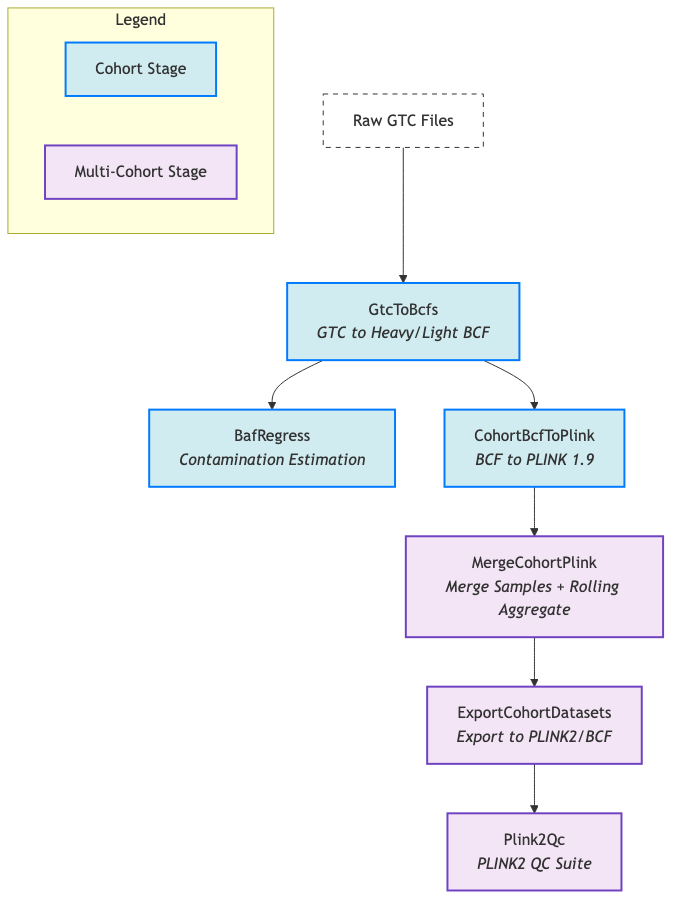
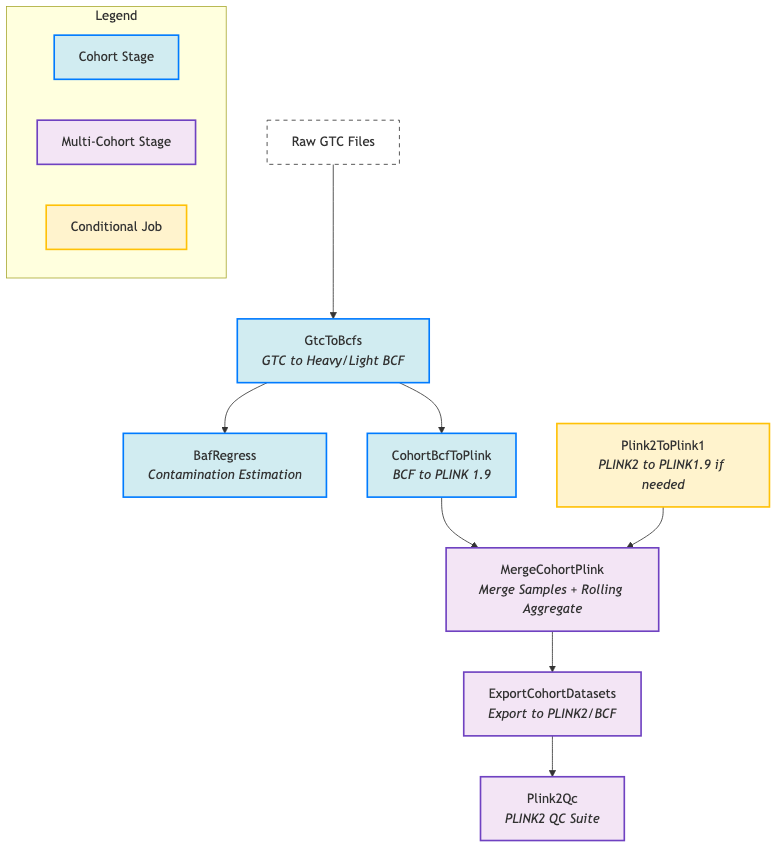
POPGEN-1268: Update rolling aggregate to handle PLINK2 format

diff --git a/src/popgen_genotyping/stages.py b/src/popgen_genotyping/stages.py
@@ -15,6 +15,7 @@ from popgen_genotyping.jobs.export_cohort_datasets_job import run_export_cohort_
 from popgen_genotyping.jobs.gtc_to_bcfs_job import run_gtc_to_bcfs
 from popgen_genotyping.jobs.merge_plink_job import run_merge_plink
 from popgen_genotyping.jobs.plink2_qc_job import run_plink2_qc
+from popgen_genotyping.jobs.plink2_to_plink1_job import run_plink2_to_plink1
 from popgen_genotyping.metamist_utils import (
     query_reported_sex,
     resolve_cohort_gtc_mapping,
@@ -204,20 +205,47 @@ class MergeCohortPlink(MultiCohortStage):
             ['popgen_genotyping', 'rolling_aggregate', 'previous_analysis_id'], default=None
         )
 
-        previous_aggregate_paths: list[dict[str, str]] | None = None
+        previous_aggregate_plink1_paths: list[dict[str, str]] | None = None
         samples_to_remove: list[str] | None = None
+        merge_job_dependencies: list[BashJob] = []
 
         if prev_analysis_id:
-            previous_aggregate_paths, samples_to_remove = resolve_rolling_aggregate(prev_analysis_id=prev_analysis_id)
+            # A previous aggregate exists in PLINK2 format, so we need to convert it to PLINK1.9
+
+            previous_aggregate_plink2_paths, samples_to_remove = resolve_rolling_aggregate(
+                prev_analysis_id=prev_analysis_id
+            )
+
+            # Define an output prefix for the converted PLINK1.9 files in tmp storage
+            plink1_prefix = get_output_prefix(
+                dataset=multicohort.analysis_dataset, stage_name='Plink2ToPlink1', tmp=True
+            )
+
+            conversion_job, converted_plink1_resource = run_plink2_to_plink1(
+                pfile_prefix=previous_aggregate_plink2_paths,
+                output_prefix=str(plink1_prefix),
+                job_name='Plink2ToPlink1',
+            )
+            merge_job_dependencies.append(conversion_job)
+
+            # The converted PLINK1.9 files become the previous aggregate for the merge job
+            previous_aggregate_plink1_paths = {
+                'bed': str(converted_plink1_resource.bed),
+                'bim': str(converted_plink1_resource.bim),
+                'fam': str(converted_plink1_resource.fam),
+            }
 
         # 3. Call merge job
         j: BashJob = run_merge_plink(
             cohort_plink_paths=cohort_plink_paths,
             output_prefix=str(object=outputs['bed']).replace('.bed', ''),
-            previous_aggregate_paths=previous_aggregate_paths,
+            previous_aggregate_paths=previous_aggregate_plink1_paths,
             samples_to_remove=samples_to_remove,
             job_name='MergeCohortPlink',
         )
+
+        if merge_job_dependencies:
+            j.depends_on(*merge_job_dependencies)
 
         return self.make_outputs(multicohort, data=outputs, jobs=[j])
 

diff --git a/src/popgen_genotyping/jobs/plink2_to_plink1_job.py b/src/popgen_genotyping/jobs/plink2_to_plink1_job.py
@@ -1,0 +1,69 @@
+"""
+Job logic for converting a PLINK2 fileset to PLINK 1.9 format.
+"""
+
+from typing import TYPE_CHECKING
+
+from cpg_utils.config import config_retrieve
+from cpg_utils.hail_batch import get_batch
+from popgen_genotyping.utils import register_job
+
+if TYPE_CHECKING:
+    from hailtop.batch.job import BashJob
+    from hailtop.batch.resource import ResourceGroup
+
+
+def run_plink2_to_plink1(
+    pfile_prefix: dict[str, str],
+    output_prefix: str,
+    job_name: str = 'plink2_to_plink1',
+) -> tuple['BashJob', 'ResourceGroup']:
+    """
+    Convert a PLINK2 fileset (.pgen, .pvar, .psam) to PLINK 1.9 format (.bed, .bim, .fam).
+
+    Args:
+        pfile_prefix (dict[str, str]): Cloud paths for the input PLINK2 fileset.
+        output_prefix (str): Cloud prefix for the output PLINK 1.9 files.
+        job_name (str): Name for the Hail Batch job.
+
+    Returns:
+        tuple[BashJob, ResourceGroup]: The job object and the output resource group.
+    """
+    b = get_batch()
+    j = register_job(
+        batch=b,
+        job_name=job_name,
+        config_path=['popgen_genotyping', 'merge_cohort_plink'],
+        image=config_retrieve(['workflow', 'plink_image']),
+        default_cpu=2,
+        default_storage='50G',
+    )
+
+    # Stage the input PLINK2 files
+    pfile = b.read_input_group(
+        pgen=pfile_prefix['pgen'],
+        pvar=pfile_prefix['pvar'],
+        psam=pfile_prefix['psam'],
+    )
+
+    # Define the output resource group
+    j.declare_resource_group(
+        output_plink1={
+            'bed': '{root}.bed',
+            'bim': '{root}.bim',
+            'fam': '{root}.fam',
+        }
+    )
+
+    # Construct the command
+    j.command(
+        f"""
+        set -ex
+        plink2 --pfile {pfile} --make-bed --out {j.output_plink1}
+        """
+    )
+
+    # Write the output to the cloud
+    b.write_output(j.output_plink1, output_prefix)
+
+    return j, j.output_plink1

diff --git a/src/popgen_genotyping/metamist_utils.py b/src/popgen_genotyping/metamist_utils.py
@@ -310,15 +310,15 @@ def resolve_rolling_aggregate(prev_analysis_id: int | str) -> tuple[dict[str, st
 
     prev_outputs, active_sg_ids = query_previous_aggregate(int(prev_analysis_id))
 
-    # Expecting PLINK 1.9 BED/BIM/FAM in outputs
+    # Expecting PLINK 2.0 PGEN/PVAR/PSAM in outputs
     previous_aggregate_paths: dict[str, str] = {
-        'bed': prev_outputs['bed'],
-        'bim': prev_outputs['bim'],
-        'fam': prev_outputs['fam'],
+        'pgen': prev_outputs['pgen'],
+        'pvar': prev_outputs['pvar'],
+        'psam': prev_outputs['psam'],
     }
 
-    # Parse the previous .fam to find all samples that were in the aggregate
-    prev_samples: list[str] = parse_psam(previous_aggregate_paths['fam'])
+    # Parse the previous .psam to find all samples that were in the aggregate
+    prev_samples: list[str] = parse_psam(previous_aggregate_paths['psam'])
 
     # Find samples that are in the previous aggregate but no longer active
     samples_to_remove: list[str] = list(set(prev_samples) - set(active_sg_ids))

diff --git a/README.md b/README.md
@@ -1,31 +1,65 @@
-# popgen-genotyping
-A pipeline to process genotyping microarray data using CPG Flow and analysis-runner.
+# Population Genomics Genotyping Pipeline
 
-## Abstract
+A `cpg-flow` pipeline to process genotyping microarray data, from raw Illumina GTC files to cohort-level PLINK and BCF datasets.
 
-Lorem ipsum.
+## Project Overview
+This pipeline is designed to automate the conversion of dense, single-sample GTC files into analysis-ready, multi-sample datasets. It handles data conversion, quality control, and formatting, producing standard outputs suitable for downstream genetic analysis.
 
-```commandline
-src
-├── workflow_name
-│   ├── __init__.py
-│   ├── config_template.toml
-│   ├── jobs
-│   │   └── LogicForAStage.py
-│   ├── main.py
-│   ├── stages.py
-│   └── utils.py
+## Pipeline Architecture
+The pipeline is composed of several sequential stages, orchestrated by `cpg-flow`. Each stage is responsible for a specific part of the data processing workflow.
+
+![Pipeline DAG](pipeline_dag.png)
+
+### Stages
+- **GtcToBcfs**: Converts raw GTC files into two BCF formats: a "Heavy" BCF containing full intensity data and a "Light" BCF containing only genotype calls (GT) and quality scores (GQ).
+- **BafRegress**: Estimates sample contamination by analyzing B-Allele Frequencies (BAF) against a population reference. If no reference is provided, it will estimate AF from the cohort.
+- **CohortBcfToPlink**: Converts the Light BCF into PLINK 1.9 binary format (`.bed`, `.bim`, `.fam`), preparing it for merging.
+- **MergeCohortPlink**: Merges PLINK files from multiple cohorts into a single, unified dataset. This stage also supports a "rolling aggregate" workflow, where new samples can be added to a previously generated aggregate.
+- **ExportCohortDatasets**: Converts the merged PLINK 1.9 dataset into PLINK2 (`.pgen`) format for long-term storage and analysis, and `.bcf` format in temporary storage for ancestry analysis. 
+- **Plink2Qc**: Performs a standard suite of quality control checks on the final PLINK2 dataset, including sample/variant missingness, allele frequency, HWE, heterozygosity, and kinship.
+
+## Prerequisites
+Before running the pipeline, ensure you have the following tools installed and configured:
+- **`cpg-flow`**: The core workflow management system.
+- **`analysis-runner`**: The command-line tool used to launch `cpg-flow` pipelines in the cloud.
+- **Docker**: Required for running the local reproduction scripts.
+
+## Configuration
+The pipeline is configured using a TOML file (e.g., `config.toml`). A template is provided in `src/popgen_genotyping/config_template.toml`.
+
+### Key Parameters
+- `[workflow]`:
+    - `dataset`: The analysis dataset for the output.
+    - `input_cohorts`: A list of cohort IDs to include in the run.
+    - `sequencing_type`: Must be set to `array`.
+    - `driver_image`: The Docker image for the main `cpg-flow` driver.
+    - `bcftools_image`, `plink_image`: Docker images for the respective tools.
+- `[popgen_genotyping.references]`:
+    - `fasta_ref_path`: Path to the human genome FASTA reference.
+    - `bpm_manifest_path`: Path to the Illumina BPM manifest file.
+    - `egt_cluster_path`: Path to the Illumina EGT cluster file.
+    - `af_ref_path` (optional): Path to a VCF containing population allele frequencies for `BafRegress`.
+- `[popgen_genotyping.rolling_aggregate]`:
+    - `previous_analysis_id` (optional): The Metamist analysis ID of a previous `MergeCohortPlink` output to enable rolling aggregate mode.
+
+## Execution
+To run the pipeline, use the `analysis-runner` command. You will need to specify the path to your configuration file, the output directory, and the script to execute.
+
+```bash
+analysis-runner 
+    --dataset <your-dataset> 
+    --output-dir <output-directory> 
+    --config config.toml 
+    run_workflow.py
 ```
 
-`workflow_name` occurs in a number of places ([pyproject.toml](pyproject.toml), [src](src), and the workflow name in the
-template config file). It is intended that you remove this generic placeholder name, and replace it with the name of
-your workflow.
+## Local Development & Testing
+This repository includes scripts for local development and testing.
 
-`stages.py` contains Stages in the workflow, with the actual logic imported from files in `jobs`.
+- **`test/scripts/reproduce_full_pipeline.py`**: A modular script that reproduces the entire pipeline workflow locally using Docker. This is useful for verifying changes and understanding the pipeline's behavior.
+- **`test/scripts/reproduce_bafregress_production.py`**: A specialized test for `BafRegress` using a production-sized cohort (94 samples) and internal AF estimation.
 
-`stages.py` also links to the Pipeline Naming Conventions document, containing a number of recommendations for naming
-Stages and other elements of the workflow.
-
-`config_template.toml` is a template, indicating the settings which are mandatory for the pipeline to run. In
-production-pipelines, many of these settings were satisfied by the cpg-workflows or per-workflow default TOML files. If
-a pipeline is being migrated from production-pipelines, the previous default config TOML would be a better substitute.
+To run the local tests, ensure Docker is running and execute the scripts directly. For example:
+```bash
+python3 test/scripts/reproduce_full_pipeline.py --samples 5 --snps 10000
+```

diff --git a/research.md b/research.md
@@ -1,0 +1,25 @@
+# Research: Update Rolling Aggregate to use PLINK2 format
+
+## Objective
+Update the `MergeCohortPlink` stage to handle previous rolling aggregates stored in PLINK2 format (`.pgen`, `.pvar`, `.psam`) instead of PLINK 1.9 format.
+
+## Current State
+- `resolve_rolling_aggregate` in `metamist_utils.py` expects and returns PLINK 1.9 paths (`bed`, `bim`, `fam`).
+- `MergeCohortPlink` stage directly passes these paths to the `run_merge_plink` job, which expects PLINK 1.9 format.
+
+## Proposed Changes
+1.  **Update `metamist_utils.py`**:
+    - Modify `resolve_rolling_aggregate` to query for `pgen`, `pvar`, and `psam` files from the previous analysis `outputs`.
+    - The function will now return these PLINK2 paths.
+
+2.  **Create a New Conversion Job**:
+    - Create `src/popgen_genotyping/jobs/plink2_to_plink1_job.py`.
+    - This will contain a function `run_plink2_to_plink1` that takes a PLINK2 fileset prefix and converts it to a PLINK 1.9 fileset using `plink2 --make-bed`.
+
+3.  **Update `MergeCohortPlink` Stage**:
+    - In `stages.py`, if a `previous_analysis_id` is provided, the `MergeCohortPlink` stage will first queue the new `run_plink2_to_plink1` conversion job.
+    - The existing `run_merge_plink` job will be made dependent on this new job.
+    - The `previous_aggregate_paths` passed to `run_merge_plink` will be the *output* of the new conversion job, ensuring it receives the PLINK 1.9 files it expects.
+    - If no `previous_analysis_id` is provided, this conversion step will be skipped, and the merge job will run as it currently does.
+
+This approach correctly handles the format conversion within the workflow, isolating the logic and maintaining the integrity of the existing merge job, while also adhering to `cpg-flow`'s stage dependency requirements.

diff --git a/plan.md b/plan.md
@@ -1,0 +1,26 @@
+# Plan: Update Rolling Aggregate to PLINK2 format
+
+## Objective
+Implement the changes required for the `MergeCohortPlink` stage to process previous aggregates stored in PLINK2 format, with conditional logic to handle the conversion.
+
+## Implementation Details
+1.  **Modify `src/popgen_genotyping/metamist_utils.py`**:
+    - Update the `resolve_rolling_aggregate` function to retrieve `pgen`, `pvar`, and `psam` paths. The sample parsing logic will also be updated to use the `.psam` file.
+2.  **Create `src/popgen_genotyping/jobs/plink2_to_plink1_job.py`**:
+    - Implement the `run_plink2_to_plink1` job function. This job will accept a PLINK2 prefix, run `plink2 --pfile <prefix> --make-bed --out <output>`, and return the resulting PLINK 1.9 `ResourceGroup`.
+3.  **Modify `src/popgen_genotyping/stages.py`**:
+    - In the `MergeCohortPlink` stage, add conditional logic:
+        - If `previous_analysis_id` is present, queue the `run_plink2_to_plink1` job and make the `run_merge_plink` job dependent on it.
+        - If not, proceed with the merge as normal.
+    - The output of the conversion job will be passed to `run_merge_plink`.
+
+## Testing Strategy
+- Run existing unit tests to check for regressions.
+- Add a new unit test for the `run_plink2_to_plink1` job.
+- Manually review the conditional logic in the `MergeCohortPlink` stage.
+
+## Definition of Done
+- The `MergeCohortPlink` stage correctly handles both scenarios (with and without a previous PLINK2 aggregate).
+- The PLINK2 to PLINK 1.9 conversion is successfully and conditionally integrated.
+- All new and modified code passes linting checks.
+- Existing tests pass, and new tests are added where appropriate.

diff --git a/ticket.md b/ticket.md
@@ -1,0 +1,20 @@
+# Jira Ticket: Update Rolling Aggregate to PLINK2 format
+
+## Ticket Details
+- **Project:** POPGEN (Board 291)
+- **Type:** Task
+- **Title:** Update Rolling Aggregate to Handle PLINK2 Format
+- **Description:** 
+The `MergeCohortPlink` stage needs to be updated to handle previous rolling aggregates stored in PLINK2 format (`.pgen`, `.pvar`, `.psam`). This requires adding a new conversion step to the workflow.
+
+Key changes:
+1. Update `resolve_rolling_aggregate` to retrieve PLINK2 file paths from Metamist.
+2. Create a new job (`plink2_to_plink1`) to convert a PLINK2 fileset to PLINK 1.9 format.
+3. Integrate this new conversion job into the `MergeCohortPlink` stage, making it a dependency for the merge job.
+- **Story Points:** 3
+- **Epic:** POPGEN-942
+- **Sprint:** 1453
+- **Definition of Done:**
+  - The pipeline successfully processes rolling aggregates stored in PLINK2 format.
+  - The PLINK2 to PLINK 1.9 conversion is correctly integrated.
+  - All code changes are tested and pass linting.
